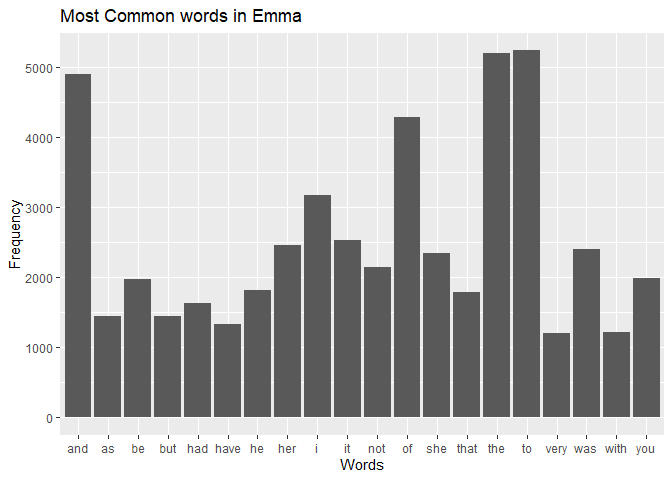
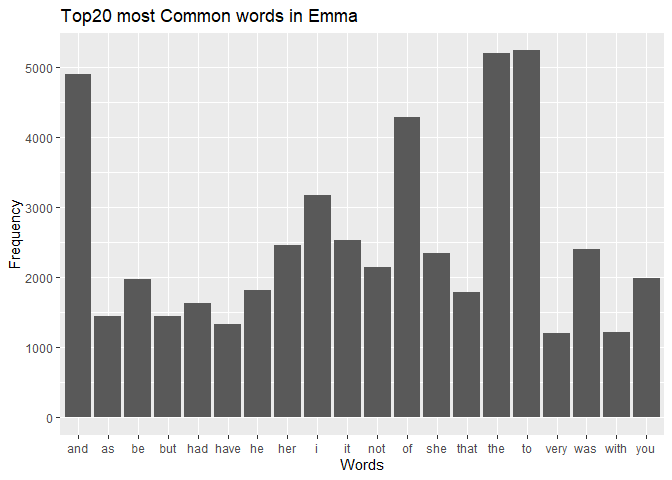
Update the function documentation

Changed region(s): [[0.0938, 0.0, 0.5312, 0.0625]]

diff --git a/Assignment-B4-R-mark-down-file.md b/Assignment-B4-R-mark-down-file.md
@@ -77,7 +77,7 @@ library(testthat)#used to test the function
 
 
 corpuso<-Corpus(VectorSource(janeaustenr::emma))
-custom_stopwords <- c("is", "a", "for", "in")
+custom_stopwords <- c("is", "a", "for", "in")#custom the stopword
 corpuso_cleaned<-tm_map(corpuso,removeWords,custom_stopwords)
 ```
 
@@ -85,30 +85,31 @@ corpuso_cleaned<-tm_map(corpuso,removeWords,custom_stopwords)
     ## transformation drops documents
 
 ``` r
-text_cleaned <- as.character(corpuso_cleaned)
+text_cleaned <- as.character(corpuso_cleaned)# turn into character 
 
-bookdata<-data.frame(text=text_cleaned[1])
+bookdata<-data.frame(text=text_cleaned[1])#turn the character into data frame for word analysis 
 
 words<-bookdata%>%
-    unnest_tokens(word,text)
-#try replacing the unnest function 
+    unnest_tokens(word,text)#restructure it as one token per row format to separate each line into words. 
+ 
 word_counts <- words %>%
     count(word, sort = TRUE)
 #pick the top 20 most frequently used words  
 top20<-word_counts%>%
-    slice_max(n,n=20)
+    slice_max(n,n=20)# pick the top 20 words 
+# plot the histogram 
 top20%>%
     ggplot(aes(x=word,y=n))+
     geom_col()+
-    labs(title="Most Common words in Emma",x="Words",y="Frequency")
+    labs(title="Top20 most Common words in Emma",x="Words",y="Frequency") 
 ```
 
 ![](Assignment-B4-R-mark-down-file_files/figure-gfm/unnamed-chunk-3-1.png)<!-- -->
 
 **The rule of the word arrangement**
 
-If words begin with a vowl (aeiou), move the inital vowl letter to the
-end and then add et near the end of the word
+If words begin with a vowel (aeiou), move the initial vowel letter to
+the end and then add “et” near the end of the word
 
 If the words begin with Ch or Cr, then move both letters to the end of
 the word and add et in the end
@@ -142,8 +143,8 @@ return(rearranged)  }
 ```
 
 ``` r
-#' Title: Rearrange the word function
-#'Function description: This function is to rearrange the characters provided in the word. Rule1:  If words begin with a vowl (aeiou), move the inital vowl letter to the end and then add et near the end of the word.Rule2:If the words begin with Ch or Cr, then move both letters to the end of the word and add et in the end. Rule3:  If the words begin with a consonant and the consonant is not Ch or Cr, move the last letter from the end to the begining and then add et near the end of the word.Lastly, the function will return an error message if the non-character is provided 
+#' Title: Rearrange the word function (rearrange_f)
+#'Function description: This function is to rearrange the characters provided in the word. Rule1:  If words begin with a vowel (aeiou), move the inital vowel letter to the end and then add et near the end of the word.Rule2:If the words begin with Ch or Cr, then move both letters to the end of the word and add et in the end. Rule3:  If the words begin with a consonant and the consonant is not Ch or Cr, move the last letter from the end to the begining and then add et near the end of the word.Lastly, the function will return an error message if the non-character is provided 
 
 #' @param word: a character provided for word rearrangement 
 
@@ -188,34 +189,34 @@ rearrange_f(1)
 
 ``` r
 #Test to see if character is the output 
-test_that("A character is returned", 
-          {expect_equal(class(rearrange_f("word")),"character")
+test_that("A character is returned",{
+            expect_equal(class(rearrange_f("word")),"character")
           expect_equal(class(rearrange_f("apple")),"character")
           
   })
 ```
 
-    ## Test passed 😀
+    ## Test passed 🥇
 
 ``` r
 #test to see if running error if giving noncharacter input  
-test_that("run into error ",
- {expect_error(rearrange_f(TRUE))
+test_that("run into error ",{
+    expect_error(rearrange_f(TRUE))
   expect_error(rearrange_f(1))
 })
 ```
 
-    ## Test passed 😸
+    ## Test passed 🎉
 
 ``` r
 #Test if an expected value is generated 
 #I first rearrnaged manually create two variables to indicate the output 
-output1<-"dworet"
-ouput2<-"ppleaet"
 
 test_that ("generate the same out put",{
                     expect_equal(rearrange_f("word"),"dworet")
           expect_equal(rearrange_f("apple"),"ppleaet")
+          expect_equal(rearrange_f("crab"),"abcret")
+          expect_equal(rearrange_f("chrome"),"romechet")
   })
 ```
 

diff --git a/README.md b/README.md
@@ -1,13 +1,13 @@
-**Assignment B4 Read me**
+**Assignment B4 Read Me**
 
 Exercises 1 and 2 are chosen for the assignment B4
 
 Fo exercise 1, after removing the stop words (is", "a", "for", "in"), I counted the word occurence and plotted the top 20 most frequent words as a bar graph. [https://medium.com/\@esegui/stop-word-removal-in-r-9f46c4eef710](https://medium.com/@esegui/stop-word-removal-in-r-9f46c4eef710){.uri} was used as a reference for the instruction.
 
-For exercise2, a function rearrange_f is created to arrange the word orders when provided a specific character, it will rearrrange the word based on the following rule:
+For exercise, a function rearrange_f is created to arrange the word orders when provided a specific character, it will rearrange the word based on the following rule:
 
-If words begin with a vowl (aeiou), move the inital vowl letter to the end and then add et near the end of the word
+-   If words begin with a vowel (aeiou), move the initial vowel letter to the end and then add "et" near the end of the word
 
-If the words begin with Ch or Cr, then move both letters to the end of the word and add et in the end
+-   If the words begin with "Ch" or "Cr", then move both letters to the end of the word and add "et" in the end
 
-If the words begin with a consonant and the consonant is not Ch or Cr, move the last letter from the end to the begining and then add et near the end of the word.
+-   If the words begin with a consonant and the consonant is not Ch or Cr, move the last letter from the end to the beginning and then add "et" near the end of the word.
